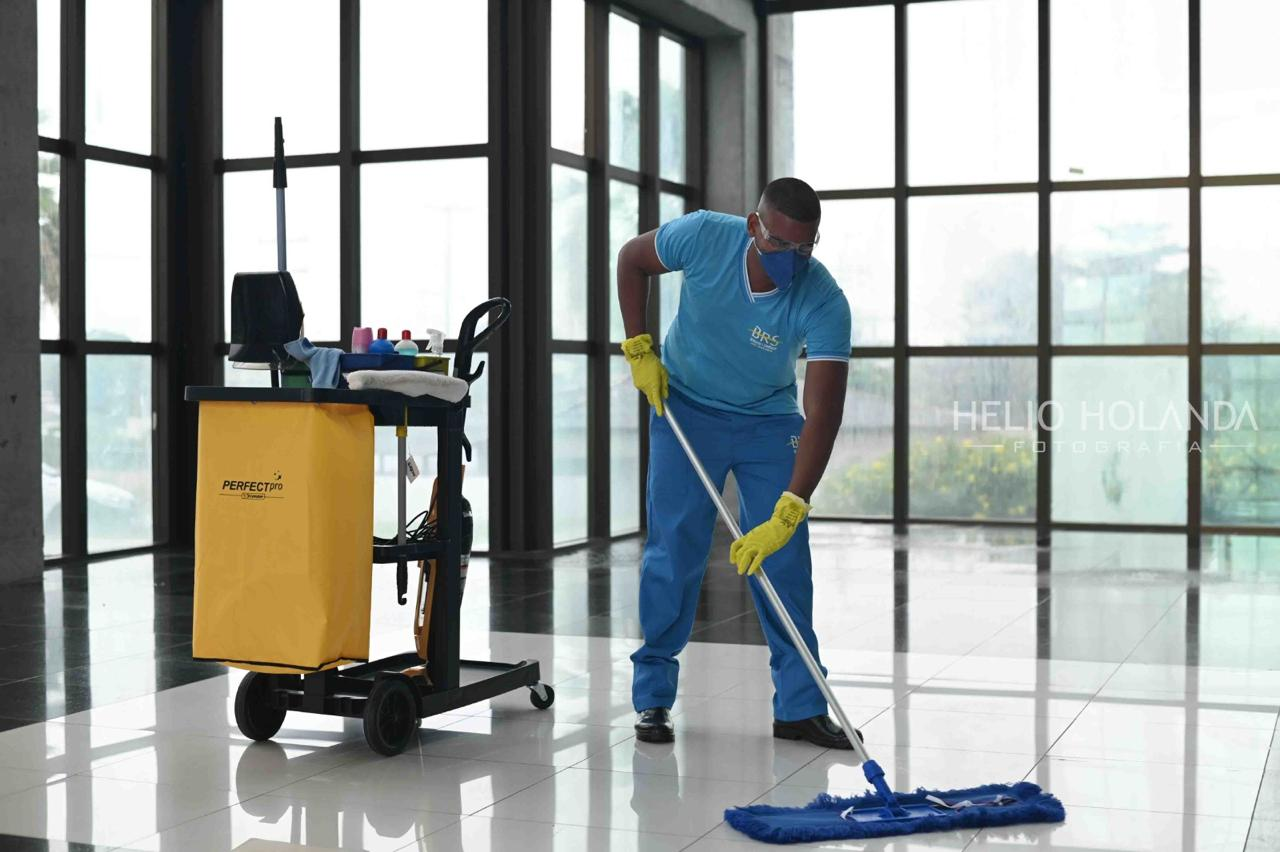
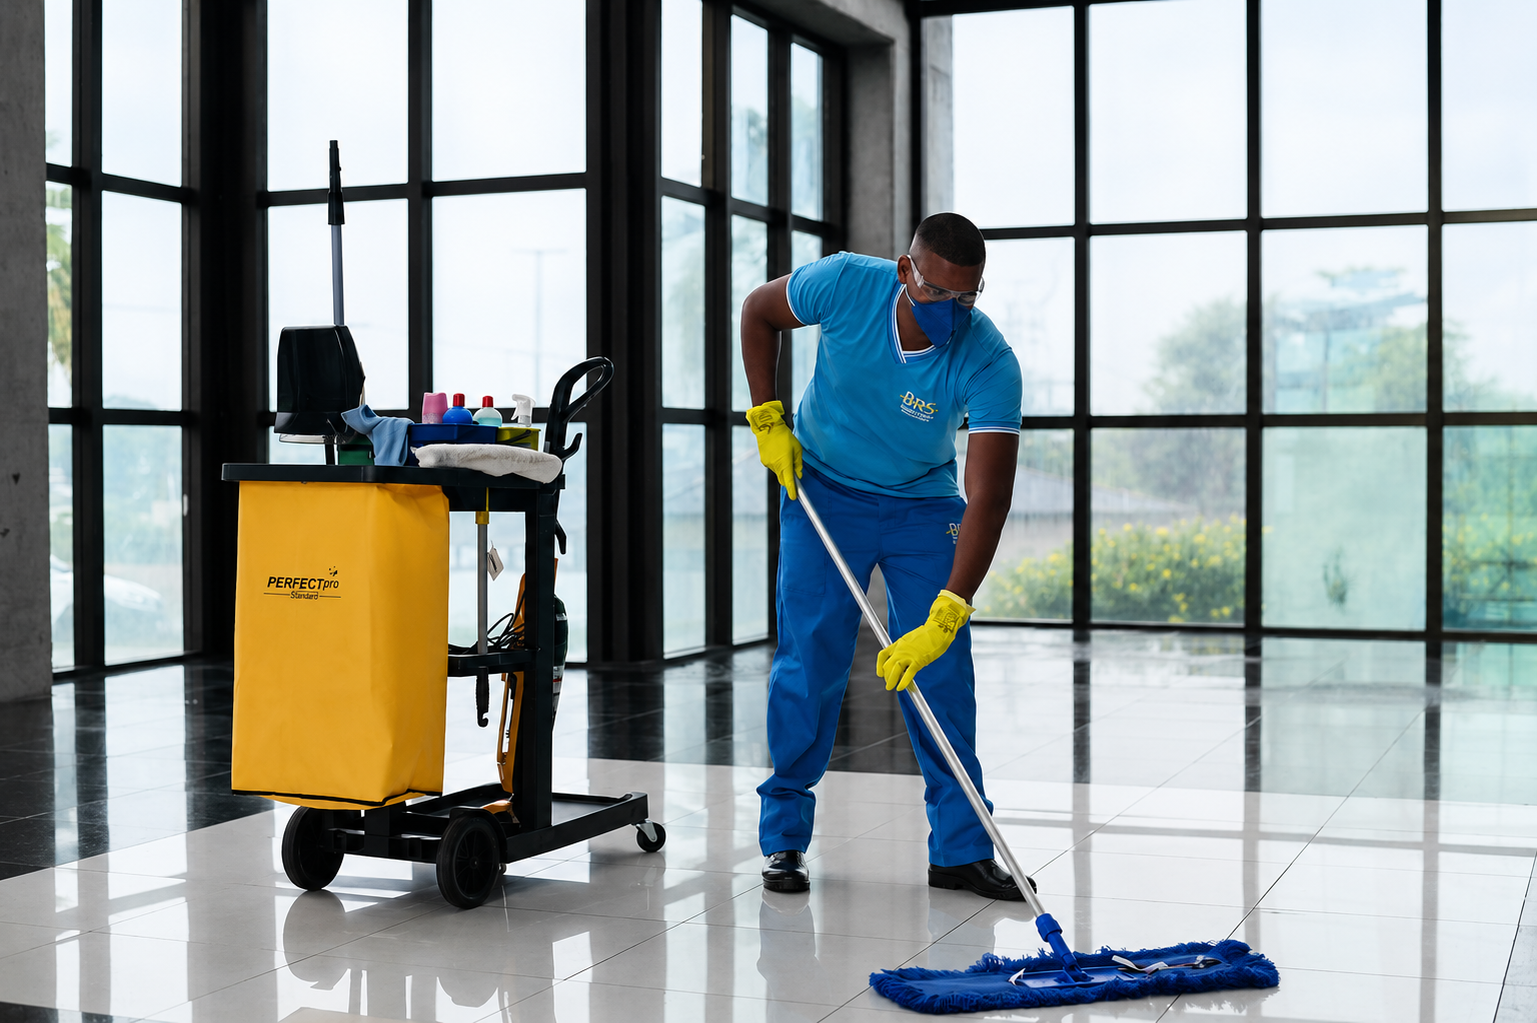
Adiciona novos servicos ao carrossel: Limpeza Pos-obra e Auxiliar de Limpeza
- Inclui card e modal para servico de Limpeza Pos-obra com imagem limpezapos.png

- Inclui card e modal para servico de Auxiliar de Limpeza com imagem auxiliarservico.png

- Atualiza lista de servicos no footer

- Atualiza imagens de servicos existentes (eletrica, garcom, servicos gerais)

- Remove arquivo duplicado sevicosgerais3.png

diff --git a/index.html b/index.html
@@ -111,6 +111,28 @@
                             </div>
                         </div>
                     </div>
+
+                    <div class="servico-card" data-modal="limpezapos">
+                        <div class="servico-moldura azul">
+                            <div class="servico-imagem-container">
+                                <img src="servicos/limpezapos.png" alt="Limpeza Pós-obra">
+                            </div>
+                            <div class="servico-label">
+                                <h3>Limpeza Pós-obra</h3>
+                            </div>
+                        </div>
+                    </div>
+
+                    <div class="servico-card" data-modal="auxiliarlimpeza">
+                        <div class="servico-moldura laranja">
+                            <div class="servico-imagem-container">
+                                <img src="servicos/auxiliarservico.png" alt="Auxiliar de Limpeza">
+                            </div>
+                            <div class="servico-label">
+                                <h3>Auxiliar de Limpeza</h3>
+                            </div>
+                        </div>
+                    </div>
                 </div>
 
                 <button class="carousel-nav next" aria-label="Próximo">
@@ -510,6 +532,34 @@
         </div>
     </div>
 
+    <div class="modal-servico" id="modal-limpezapos">
+        <div class="modal-overlay-servico"></div>
+        <div class="modal-conteudo">
+            <button class="modal-fechar">&times;</button>
+            <div class="modal-imagem">
+                <img src="servicos/limpezapos.png" alt="Limpeza Pós-obra">
+            </div>
+            <div class="modal-texto">
+                <h3>Limpeza Pós-obra</h3>
+                <p>Serviço especializado em limpeza após reformas e construções. Nossa equipe remove resíduos, poeira e sujeiras específicas de obra, deixando o ambiente pronto para uso com eficiência e cuidado.</p>
+            </div>
+        </div>
+    </div>
+
+    <div class="modal-servico" id="modal-auxiliarlimpeza">
+        <div class="modal-overlay-servico"></div>
+        <div class="modal-conteudo">
+            <button class="modal-fechar">&times;</button>
+            <div class="modal-imagem">
+                <img src="servicos/auxiliarservico.png" alt="Auxiliar de Limpeza">
+            </div>
+            <div class="modal-texto">
+                <h3>Auxiliar de Limpeza</h3>
+                <p>Profissionais capacitados para auxiliar nas rotinas de limpeza e conservação. Equipe dedicada e treinada para manter ambientes organizados, limpos e higienizados com qualidade e eficiência.</p>
+            </div>
+        </div>
+    </div>
+
     <!-- Footer -->
     <footer class="footer-brs">
         <div class="container">
@@ -538,6 +588,8 @@
                         <li><a href="#servicos">Apoio Administrativo</a></li>
                         <li><a href="#servicos">Elétrica</a></li>
                         <li><a href="#servicos">Roçagem</a></li>
+                        <li><a href="#servicos">Limpeza Pós-obra</a></li>
+                        <li><a href="#servicos">Auxiliar de Limpeza</a></li>
                         <li><a href="#servicos">Copeiragem</a></li>
                         <li><a href="#servicos">Jardinagem</a></li>
                     </ul>